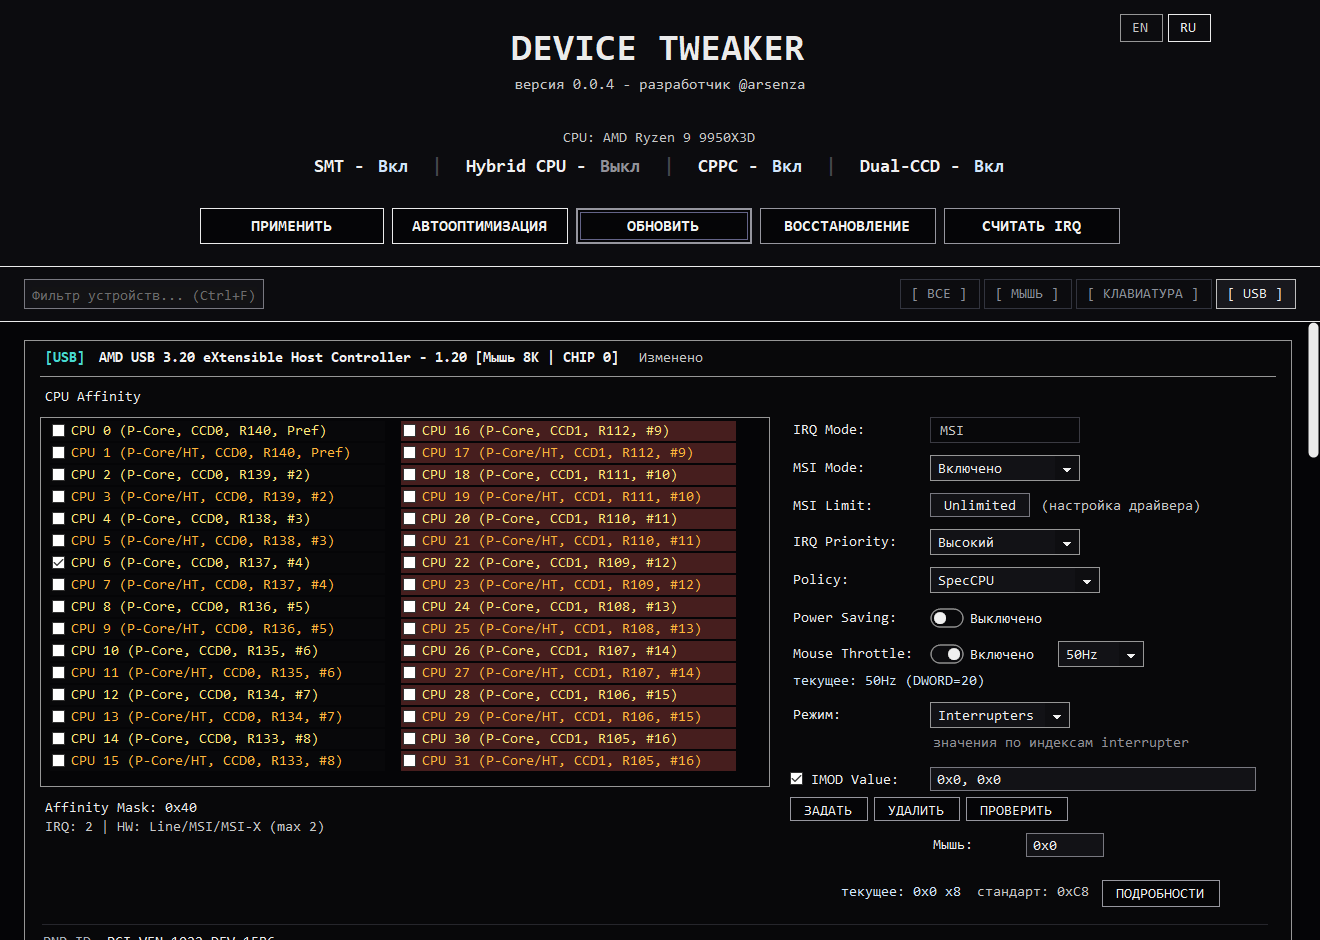
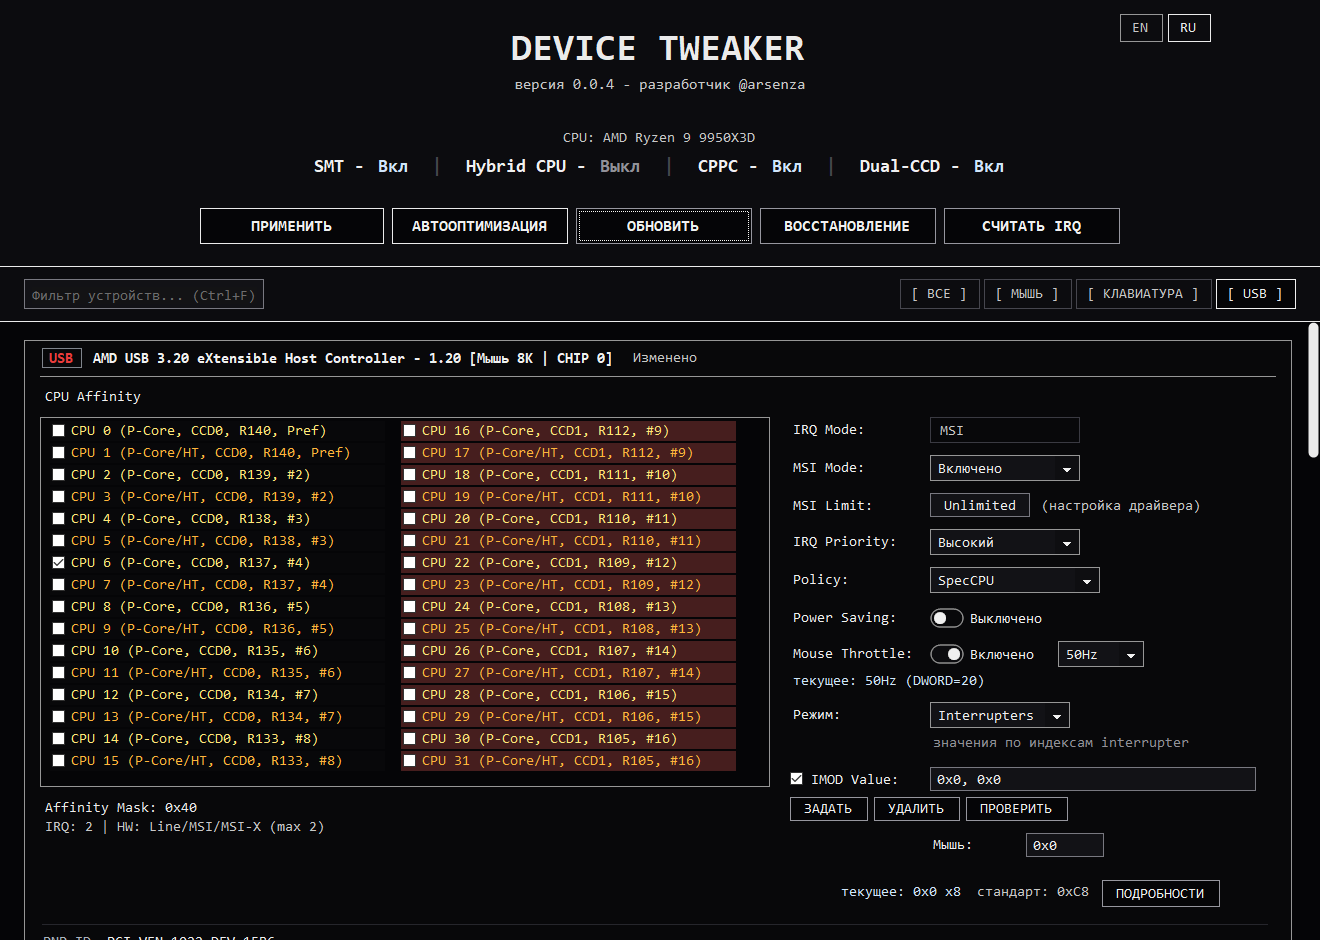
docs: refresh the bilingual interface gallery
Replace all sixteen demonstration captures with the current interface in English and Russian, including outlined device labels, localized backup descriptions and compact driver information.

Validation: eight hidden-desktop sessions; all sixteen PNGs visually inspected and hash-bound review records completed. Captures use demonstration devices and do not claim physical hardware coverage.

diff --git a/docs/SCREENSHOTS.ru.md b/docs/SCREENSHOTS.ru.md
@@ -56,10 +56,10 @@ P/E-ядра, MSI-X и явная маска привязки к CPU.
 </details>
 
 <details>
-<summary>Проверка Windows и драйвера</summary>
+<summary>Сведения о драйвере</summary>
 
-Настройки безопасности Windows и состояния связанных служб.
+Назначение драйвера, автозапуск, ограничения античитов и проверка Windows без загрузки драйвера.
 
-[![Проверка Windows и драйвера](../assets/screenshots/system-check.ru.png)](../assets/screenshots/system-check.ru.png)
+[![Сведения о драйвере](../assets/screenshots/system-check.ru.png)](../assets/screenshots/system-check.ru.png)
 
 </details>

diff --git a/docs/SCREENSHOTS.md b/docs/SCREENSHOTS.md
@@ -56,10 +56,10 @@ Completion summary, warnings and access to logs and backups.
 </details>
 
 <details>
-<summary>Windows and driver checks</summary>
+<summary>Driver information</summary>
 
-Windows security settings and relevant service states.
+Driver requirements, startup behavior, anti-cheat limitations and a read-only Windows check.
 
-[![Windows and driver checks](../assets/screenshots/system-check.en.png)](../assets/screenshots/system-check.en.png)
+[![Driver information](../assets/screenshots/system-check.en.png)](../assets/screenshots/system-check.en.png)
 
 </details>
